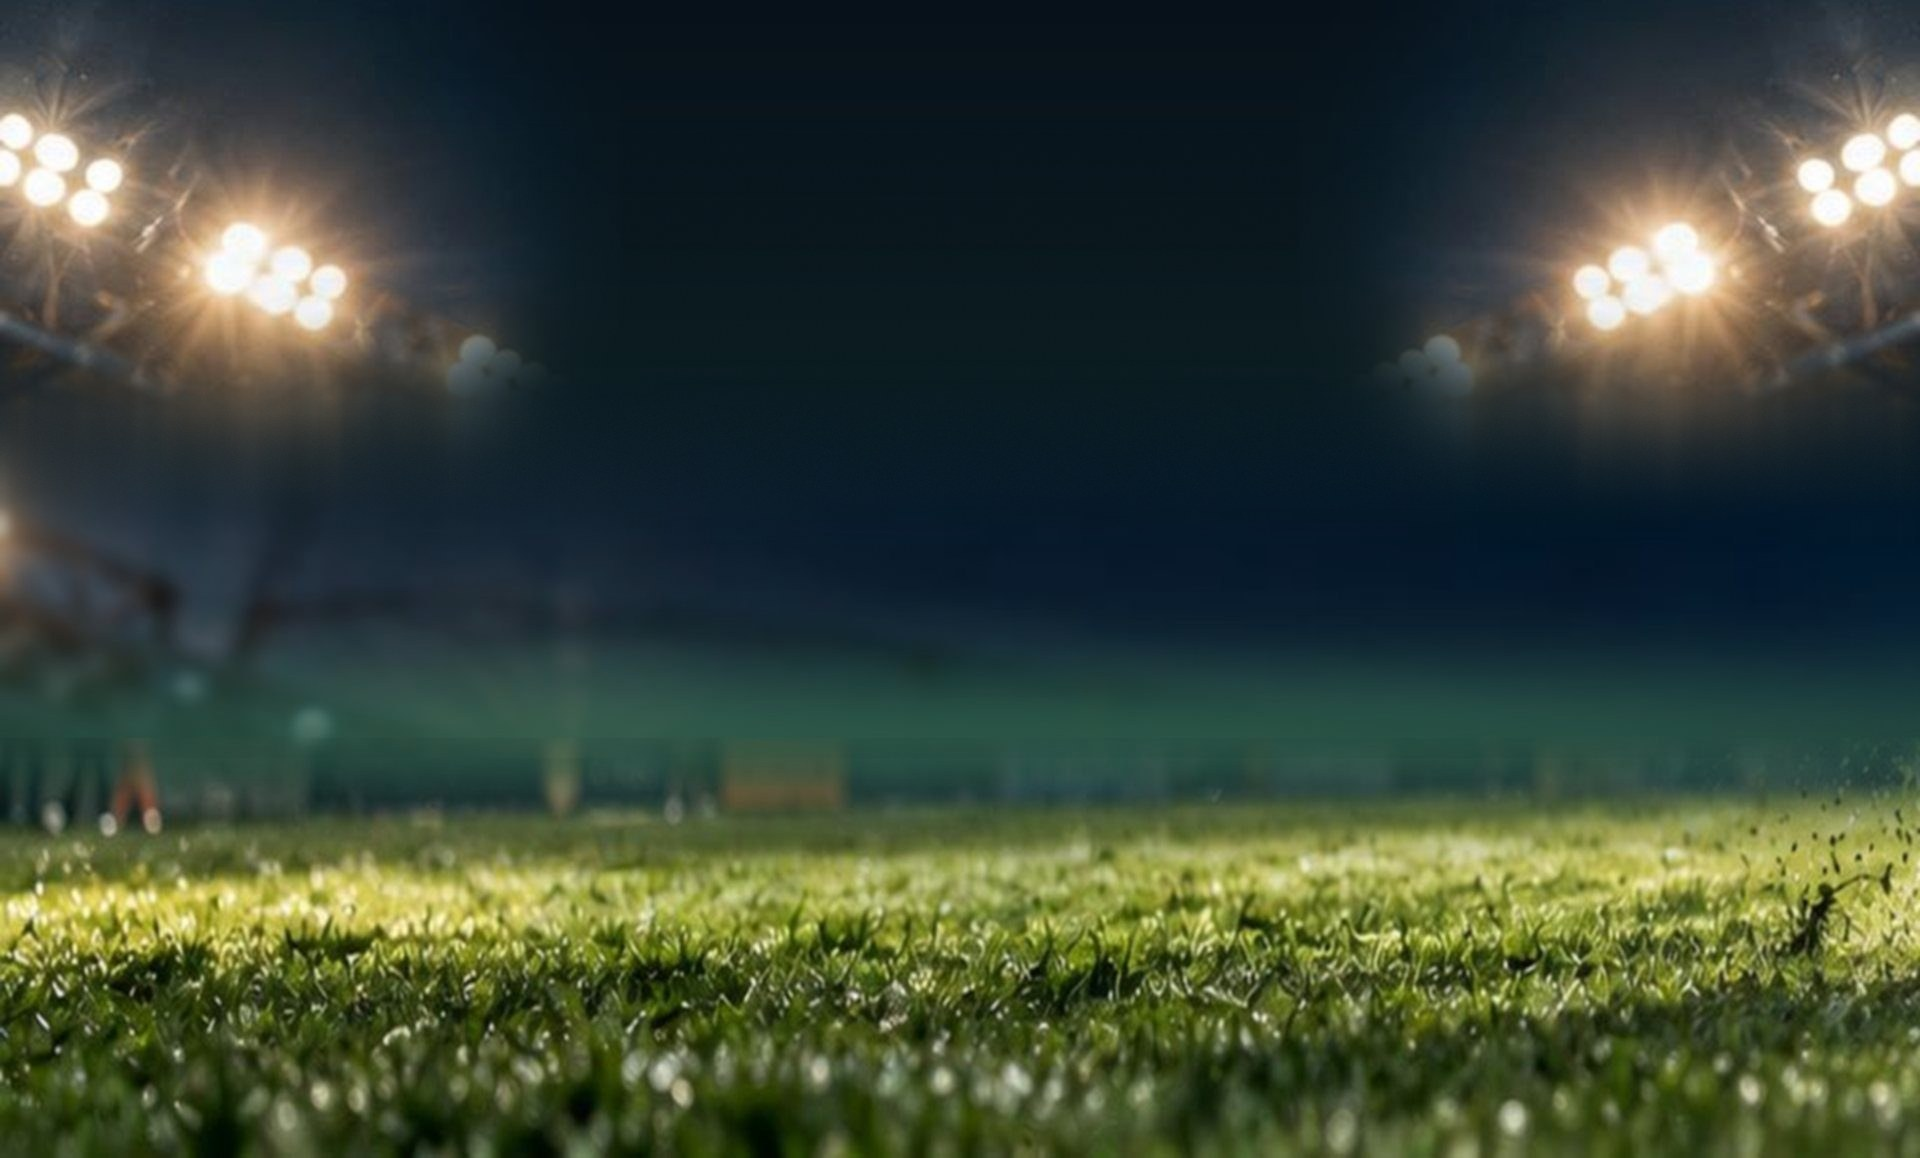
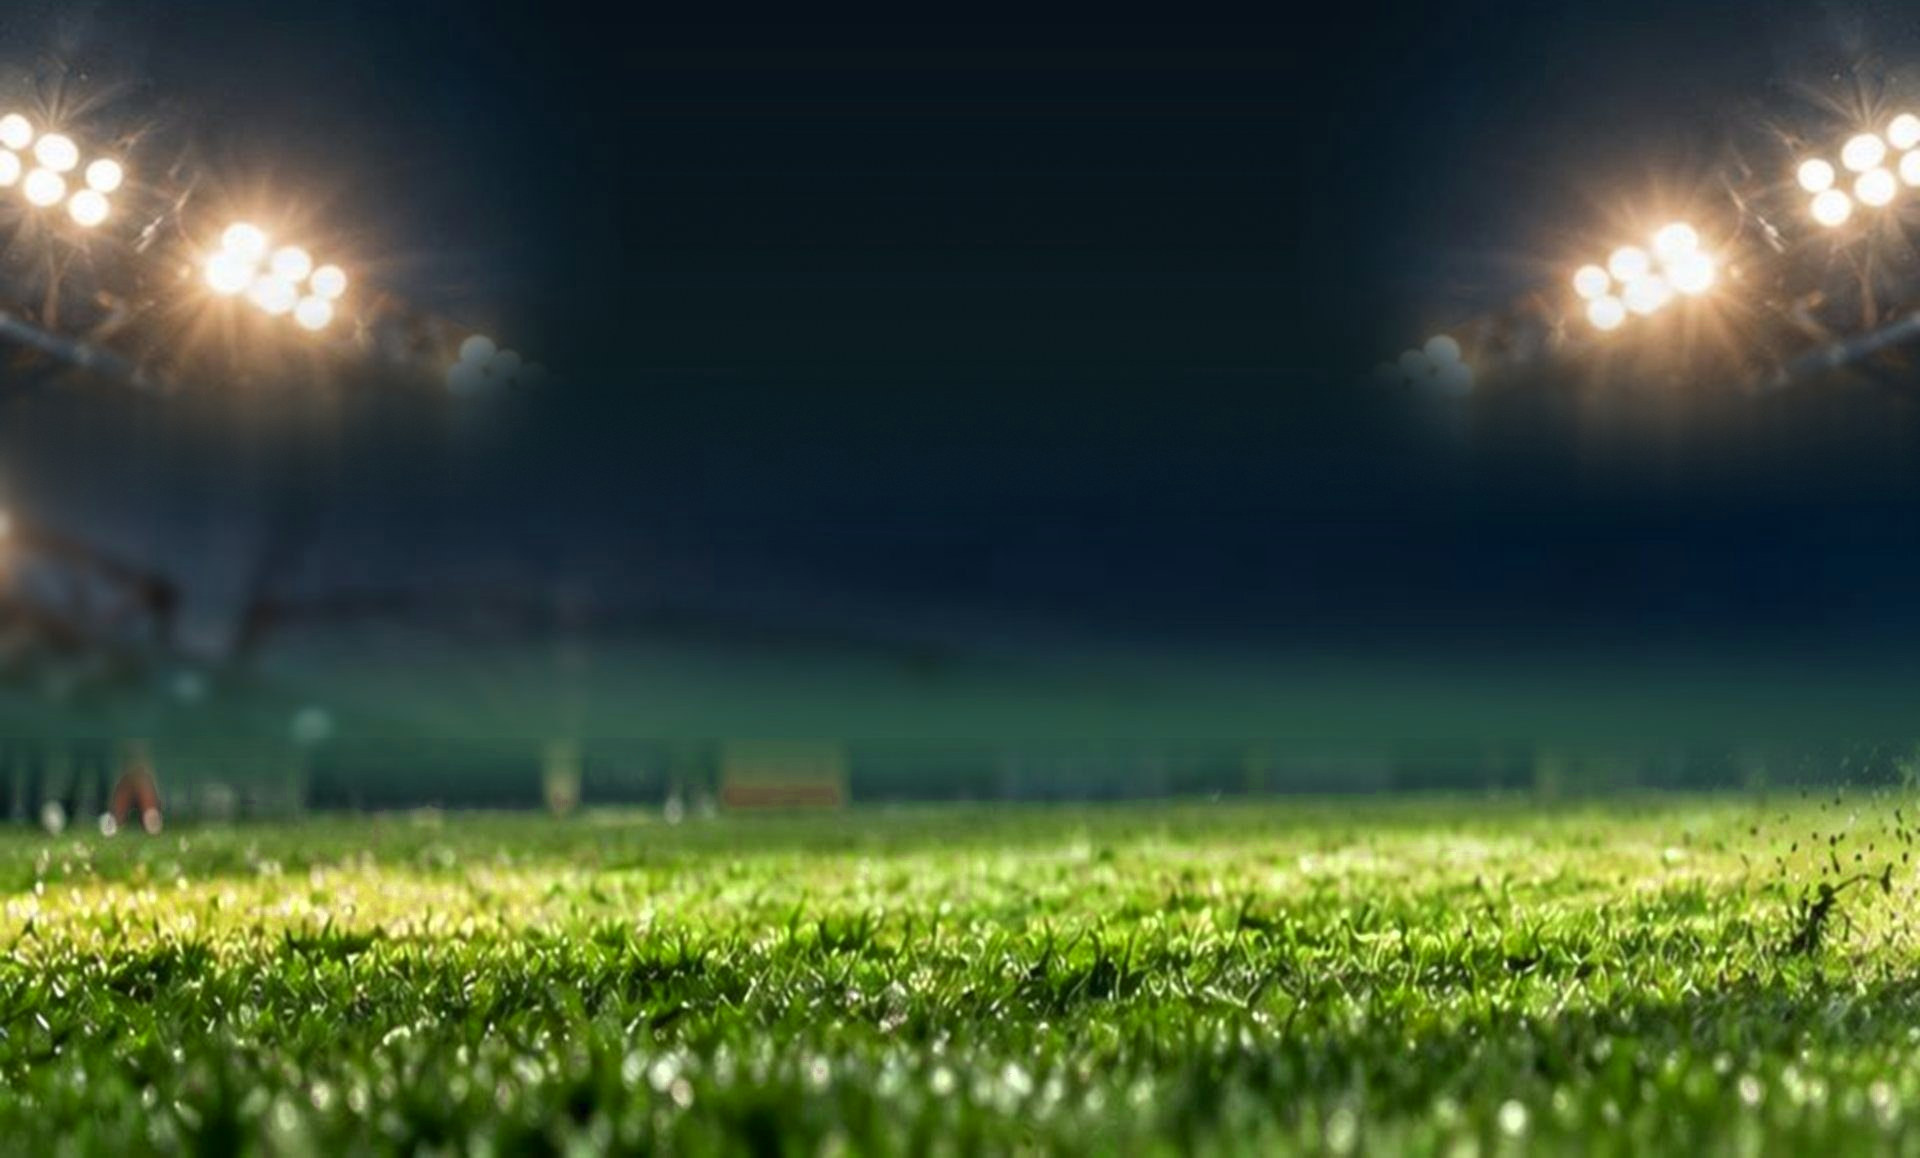
Update landing copy: slogan, no unsigned names, World Cup Tour, hidden audition dates
- Slogan is now Từ Đường Phố ra Sân Vận Động (hero, footer, ticker)
- Remove Park Hang-seo and La Liga mentions, Top 11 go to World Cup Tour
- Final Match copy says hàng triệu khán giả
- Coaches and guests section shows 6 mystery silhouettes by role
- Brighter grass in the background photo
- Region cards closer together; audition dates hidden until final
  (SHOW_DATES flag in Regions.tsx brings back the backend dates)

Claude-Session: https://claude.ai/code/session_017554NDgTw1LNatiDc3Yn3k

Changed region(s): [[0.0, 0.6839, 1.0, 1.0]]

diff --git a/frontend-app/src/components/home/Training.tsx b/frontend-app/src/components/home/Training.tsx
@@ -8,14 +8,33 @@ const PILLARS = [
   { title: 'Kỹ năng mềm', text: 'Truyền thông, thương hiệu cá nhân, hợp đồng' },
 ];
 
-const COACHES = [
-  { name: 'Park Hang-seo', role: 'Biểu tượng di sản', mono: 'PH', gold: true },
-  { name: 'Chuyên gia La Liga', role: 'Ban huấn luyện', mono: 'LL' },
-  { name: 'Quang Hải', role: 'Khách mời', mono: 'QH' },
-  { name: 'Đình Bắc', role: 'Khách mời', mono: 'ĐB' },
-  { name: 'Xuân Son', role: 'Khách mời', mono: 'XS' },
-  { name: 'Đặng Văn Lâm', role: 'Khách mời', mono: 'VL' },
+// names are not signed yet: one mystery silhouette per open slot
+const SLOTS = [
+  { name: 'Biểu tượng di sản', slots: 1, gold: true },
+  { name: 'Chuyên gia quốc tế', slots: 2 },
+  { name: 'Siêu sao bóng đá', slots: 2 },
+  { name: 'Chủ tịch quyền lực', slots: 1 },
 ];
+const COACHES = SLOTS.flatMap((s) => Array.from({ length: s.slots }, (_, i) => ({ ...s, key: `${s.name}-${i}`, role: 'Sắp công bố' })));
+
+function Silhouette({ gold }: { gold?: boolean }) {
+  const c = gold ? '#E3C27E' : '#A6E35A';
+  return (
+    <svg className="of-coach-mono" viewBox="0 0 120 150" fill="none" aria-hidden="true">
+      <defs>
+        <linearGradient id={gold ? 'of-sil-g' : 'of-sil-l'} x1="0" y1="0" x2="0" y2="1">
+          <stop offset="0" stopColor={c} stopOpacity=".5" />
+          <stop offset="1" stopColor={c} stopOpacity=".04" />
+        </linearGradient>
+      </defs>
+      <circle cx="60" cy="48" r="26" fill={`url(#${gold ? 'of-sil-g' : 'of-sil-l'})`} stroke={c} strokeOpacity=".8" strokeWidth="1.6" />
+      <path d="M8 150c0-38 22-58 52-58s52 20 52 58z" fill={`url(#${gold ? 'of-sil-g' : 'of-sil-l'})`} stroke={c} strokeOpacity=".8" strokeWidth="1.6" strokeLinejoin="round" />
+      <text x="60" y="60" textAnchor="middle" fontSize="34" fontWeight="800" fill={c} fillOpacity=".95" fontFamily="inherit">
+        ?
+      </text>
+    </svg>
+  );
+}
 
 export default function Training() {
   return (
@@ -79,17 +98,11 @@ export default function Training() {
           <SectionHead eyebrow="Người dẫn đường" title="Ban huấn luyện & khách mời" />
           <div className="mt-10 grid grid-cols-2 gap-3 sm:grid-cols-3 lg:grid-cols-6 lg:gap-4">
             {COACHES.map((c, i) => (
-              <div key={c.name} className="of-coach text-center" data-reveal="" style={revealDelay(i)}>
+              <div key={c.key} className="of-coach text-center" data-reveal="" style={revealDelay(i)}>
                 <div
                   className={`${c.gold ? 'of-glass-gold of-cut--gold of-run' : 'of-glass of-run-hover'} of-cut of-spot flex aspect-[3/4] items-center justify-center overflow-hidden`}
                 >
-                  <span
-                    className="of-display of-coach-mono"
-                    style={{ color: 'transparent', WebkitTextStroke: c.gold ? '1.5px rgba(227,194,126,.75)' : '1.5px rgba(166,227,90,.5)' }}
-                    aria-hidden="true"
-                  >
-                    {c.mono}
-                  </span>
+                  <Silhouette gold={c.gold} />
                 </div>
                 <div className={`of-display mt-3 text-[22px] lg:text-[24px] ${c.gold ? 'of-gold' : ''}`}>{c.name}</div>
                 <div className={`text-[13px] ${c.gold ? 'text-[color:var(--gold-2)]' : 'text-[#BFCCC4]'}`}>{c.role}</div>

diff --git a/frontend-app/src/components/home/Regions.tsx b/frontend-app/src/components/home/Regions.tsx
@@ -19,9 +19,14 @@ function formatDate(d: string) {
   return day && m && y ? `${day}/${m}/${y}` : d;
 }
 
+// The new audition dates are not final yet. Flip to true to show the dates from the backend stages again.
+const SHOW_DATES = false;
+
 export default function Regions({ stages, ctaHref }: { stages: Stage[]; ctaHref: string }) {
   const byRegion = (key: string) =>
-    stages.filter((s) => s.region === key && s.stageType === 'REGIONAL_AUDITION').sort((a, b) => a.stageDate.localeCompare(b.stageDate))[0];
+    !SHOW_DATES
+      ? undefined
+      : stages.filter((s) => s.region === key && s.stageType === 'REGIONAL_AUDITION').sort((a, b) => a.stageDate.localeCompare(b.stageDate))[0];
 
   return (
     <section id="lich" className="relative z-[2] px-4 py-20 lg:px-6 lg:py-28">
@@ -36,7 +41,7 @@ export default function Regions({ stages, ctaHref }: { stages: Stage[]; ctaHref:
           </Link>
         </div>
 
-        <div className="mt-10 grid gap-3 lg:grid-cols-3 lg:gap-5">
+        <div className="mt-8 grid gap-2.5 lg:mt-10 lg:grid-cols-3 lg:gap-3">
           {REGIONS.map((r, i) => {
             const stage = byRegion(r.key);
             const active = stage?.status === 'ACTIVE';
@@ -45,7 +50,7 @@ export default function Regions({ stages, ctaHref }: { stages: Stage[]; ctaHref:
                 key={r.key}
                 data-reveal="zoom"
                 style={revealDelay(i)}
-                className={`of-glass of-cut of-cut--lg of-spot of-lift flex flex-col gap-3 overflow-hidden p-6 lg:p-7 ${active ? 'of-run' : 'of-run-hover'}`}
+                className={`of-glass of-cut of-cut--lg of-spot of-lift flex flex-col gap-2.5 overflow-hidden p-6 lg:p-7 ${active ? 'of-run' : 'of-run-hover'}`}
               >
                 <div className="of-display of-outline pointer-events-none absolute -right-2 top-1 text-[110px] !leading-[1.2] opacity-70 lg:text-[130px]" aria-hidden="true">
                   {r.mark}

diff --git a/frontend-app/src/components/home/Benefits.tsx b/frontend-app/src/components/home/Benefits.tsx
@@ -1,9 +1,9 @@
 import { Icons, SectionHead, revealDelay } from './ui';
 
 const BENEFITS = [
-  { icon: Icons.coach, title: 'Huấn luyện chuẩn chuyên nghiệp', text: '4 tháng cùng Park Hang-seo, chuyên gia La Liga và chuyên gia hàng đầu Việt Nam.' },
-  { icon: Icons.globe, title: 'Tập huấn tại Tây Ban Nha', text: 'Top 11 đi World Cup Tour, học hỏi trực tiếp nền bóng đá La Liga.' },
-  { icon: Icons.stadium, title: 'Ra sân vận động quốc gia', text: 'Final Match phát sóng truyền hình toàn quốc, trước hàng vạn khán giả.' },
+  { icon: Icons.coach, title: 'Huấn luyện chuẩn chuyên nghiệp', text: '4 tháng cùng chuyên gia quốc tế và chuyên gia hàng đầu Việt Nam.' },
+  { icon: Icons.globe, title: 'Đi World Cup Tour', text: 'Top 11 học hỏi trực tiếp nền bóng đá số 1 thế giới.' },
+  { icon: Icons.stadium, title: 'Ra sân vận động quốc gia', text: 'Final Match phát sóng truyền hình toàn quốc, gặp hàng triệu khán giả.' },
   { icon: Icons.contract, title: 'Hợp đồng CLB chuyên nghiệp', text: 'Cơ hội ký với CLB trong nước, quốc tế và được chọn vào Đội tuyển quốc gia.' },
   { icon: Icons.scholarship, title: 'Học bổng', text: 'Học bổng tú tài, cử nhân và đào tạo bóng đá chuyên nghiệp.' },
   { icon: Icons.trophy, title: 'Giải thưởng & thương hiệu', text: 'Hiện kim, hiện vật, cúp vàng và hàng triệu khán giả biết đến bạn.', gold: true },

diff --git a/frontend-app/src/components/home/Hero.tsx b/frontend-app/src/components/home/Hero.tsx
@@ -100,13 +100,14 @@ export default function Hero({
             </span>
           </h1>
 
-          <div className="of-in of-display mt-4 text-[17px] font-bold !leading-[1.25] tracking-[0.3em] sm:text-[22px]" style={cssVars({ '--i': 0 })}>
-            <span className="of-shine-gold">From the street to the stadium</span>
+          <div className="of-in of-display mt-4 text-[17px] font-bold !leading-[1.3] tracking-[0.12em] sm:text-[22px] sm:tracking-[0.18em]" style={cssVars({ '--i': 0 })}>
+            <span className="of-shine-gold">Từ Đường Phố ra Sân Vận Động</span>
           </div>
 
           <p className="of-in mt-5 max-w-[560px] text-[16px] text-[#E2EAE4] sm:text-[18px]" style={cssVars({ '--i': 1 })}>
             Cơ hội cho tài năng <strong className="text-white">16–21 tuổi</strong> theo đuổi giấc mơ sân cỏ. Huấn luyện cùng{' '}
-            <strong className="text-white">Park Hang-seo</strong> và chuyên gia La Liga, tập huấn tại Tây Ban Nha, ra sân ở sân vận động quốc gia.
+            <strong className="whitespace-nowrap text-white">chuyên gia quốc tế</strong>, Top 11 đi World Cup Tour, ra sân vận động quốc gia gặp{' '}
+            <strong className="text-white">hàng triệu</strong> khán giả.
           </p>
 
           <div className="of-in mt-7 flex flex-col gap-3 sm:flex-row sm:flex-wrap" style={cssVars({ '--i': 2 })}>

diff --git a/frontend-app/src/components/home/HomeFooter.tsx b/frontend-app/src/components/home/HomeFooter.tsx
@@ -46,7 +46,7 @@ export default function HomeFooter() {
       <div className="mx-auto grid max-w-[1240px] gap-10 lg:grid-cols-[1.2fr_1fr_1fr]">
         <div>
           <Image src="/images/logo-white-full.png" alt="11 On Field" width={182} height={36} className="h-9 w-auto" />
-          <p className="of-display of-shine-gold mt-4 text-[20px] !leading-[1.25] tracking-[0.2em]">From the street to the stadium</p>
+          <p className="of-display of-shine-gold mt-4 text-[20px] !leading-[1.25] tracking-[0.14em]">Từ Đường Phố ra Sân Vận Động</p>
           <div className="mt-5 flex gap-2.5">
             {SOCIALS.map((s) => (
               <a

diff --git a/frontend-app/src/components/home/home.css b/frontend-app/src/components/home/home.css
@@ -1062,13 +1062,14 @@
 
 /* coach cards */
 .of-coach-mono {
-  font-size: 110px;
-  line-height: 0.8;
-  transition: transform 0.6s cubic-bezier(0.2, 0.8, 0.2, 1), -webkit-text-stroke-color 0.3s;
+  width: 62%;
+  height: auto;
+  margin-top: 14%;
+  filter: drop-shadow(0 0 10px rgba(166, 227, 90, 0.35));
+  transition: transform 0.6s cubic-bezier(0.2, 0.8, 0.2, 1);
 }
 .of-coach:hover .of-coach-mono {
-  transform: scale(1.12) translateY(-6px);
-  -webkit-text-stroke-color: rgba(214, 250, 158, 0.9);
+  transform: scale(1.08) translateY(-6px);
 }
 
 /* animated flow connector (vertical on mobile, horizontal from 1024px) */

diff --git a/frontend-app/src/components/home/Journey.tsx b/frontend-app/src/components/home/Journey.tsx
@@ -10,7 +10,7 @@ const STEPS = [
   { title: 'Scouting khu vực', text: 'Thi đấu trực tiếp tại 3 miền', badge: <>Top 100 / miền</> },
   { title: 'Vòng toàn quốc', text: 'Đánh giá chuyên sâu bằng dữ liệu', badge: <>Top 100</> },
   { title: 'Lên tuyển', text: '4 tháng huấn luyện, 10 tập thử thách', badge: <>Top 30</> },
-  { title: 'Ra sân', text: 'Tập huấn La Liga, Final Match', badge: <>Top 11</>, gold: true },
+  { title: 'Ra sân', text: 'World Cup Tour, Final Match', badge: <>Top 11</>, gold: true },
 ];
 
 const SCORING = [

diff --git a/frontend-app/src/components/home/Ticker.tsx b/frontend-app/src/components/home/Ticker.tsx
@@ -1,10 +1,10 @@
 export const PLAYER_TICKER = [
-  'From the street to the stadium',
+  'Từ Đường Phố ra Sân Vận Động',
   '30.000 hồ sơ',
   'Tuyển trạch 3 miền',
-  'Huấn luyện cùng Park Hang-seo',
-  'Tập huấn La Liga',
-  'Top 11 ra sân quốc gia',
+  'Huấn luyện cùng chuyên gia quốc tế',
+  'Top 11 đi World Cup Tour',
+  'Ra sân quốc gia, hàng triệu khán giả',
   'Đăng ký miễn phí',
 ];
 
